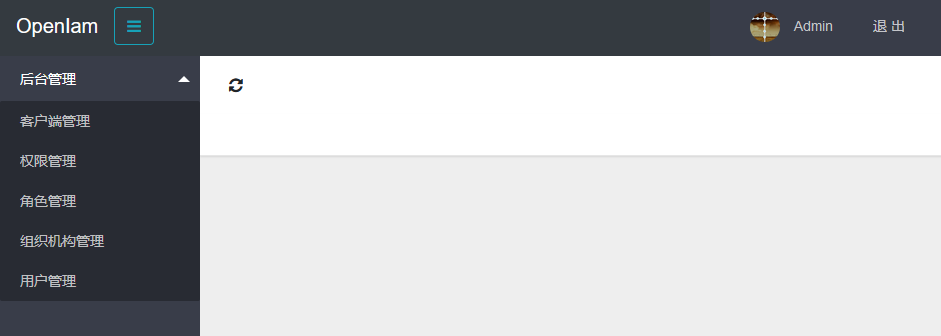
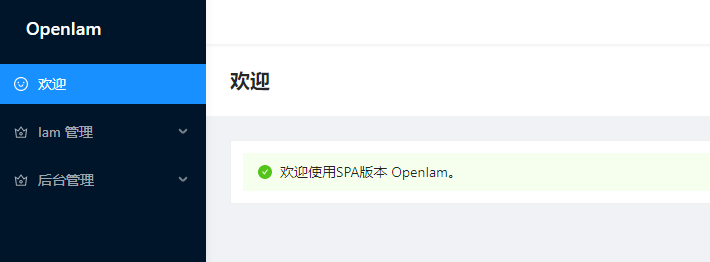
去掉 package.json 中的无用环境变量，修改 README

diff --git a/README.md b/README.md
@@ -1,12 +1,33 @@
-# OpenIam
-轻量级通用 Identity and Access Management (以下简称 Iam) 解决方案，用于满足企业内部各系统的单点登录（集成了 钉钉、企业微信、用户名、手机号、工号等多种方式）、用户管理、组织管理、授权管理的基本需求。    
-系统目前主要基于 `Asp.Net Core 3.1`, `EF Core 3.1`, `IdentityServer4`, `Layui 2.5.7` 技术实现，使用 Postgresql 数据库。
+# OpenIam （Spa)
+轻量级通用开源 Identity and Access Management (以下简称 Iam) 解决方案，用于满足企业内部各系统的单点登录（集成了 钉钉、企业微信、用户名、手机号、工号等多种方式）、用户管理、组织管理、授权管理的基本需求。    
+
+**SPA** 版本，除了 "用户登录" 相关功能仍然基于 `Razor Page` 方式开发，其余所有管理页面均基于前后端分离模式实现，其中：
+
+- 后端系统目前主要基于 `Asp.Net Core 3.1`, `EF Core 3.1`, `IdentityServer 4`, `Layui 2.5.7` 技术实现，使用 `Postgresql 13` 数据库。（注，后端系统已经提供 Layui 整套管理界面，因此可以和使用非 Spa 版本一样独立使用）
+- Spa 主要基于 `And Design Pro v5`，`React 17.0.0` 实现，并基于 `Pkce` 模式与后端进行认证。
+
+
+
+项目开发环境：
+
+- Win 10 x64
+- Visual Stuido 2019 v16.8.4、VS Code v1.52.1
+- Node v12.18.4
+- Docker v19.03.13
+
+
 
 ## 效果图
 ##### 登录（小屏）
+
+采用 Razor Page
+
 <img src="./Docs/smallScreen.png" width="200" ></img>
 
 ##### 登录（大屏）
+
+采用 Razor Page
+
 <img src="./Docs/largeScreen.png" width="500" ></img>
 
 ##### 首页
@@ -16,18 +37,36 @@
 <img src="./Docs/client.png" width="500" ></img>
 
 ##### 权限管理
-<img src="./Docs/permission.png" width="500" ></img>
+<img src="./Docs/perm.png" width="500" ></img>
+
+##### 角色管理
+
+<img src="./Docs/role.png" width="500" ></img>
+
+##### 组织机构管理
+
+<img src="./Docs/org.png" width="500" ></img>
+
+##### 用户管理
+
+<img src="./Docs/user.png" width="500" ></img>
+
+##### 系统管理
+
+<img src="./Docs/sys.png" width="500" ></img>
 
 ## 功能说明
-OpenIam 主要用于内部系统间的统一身份认证及权限管理，核心功能包括：客户端管理、用户管理、授权管理、组织机构管理。
+OpenIam 主要用于内部系统间的统一身份认证及权限管理，核心功能包括：客户端管理、用户管理、组织机构管理、授权管理。
 
 #### 客户端管理
 每个子系统如果需要接入 OpenIam，则必须先要在 OpenIam 中注册一个客户端，获取对应的 `Client Id`, `Client Secret`。如果客户端需要访问需要授权的 Api 服务，则可以把 Api 服务作为 Scope 天不假到客户端中，从而可以利用 OpenIam 进行统一鉴权。
 
+OpenIam 目前只支持 `Code(Pkce)` 、`Credential`模式。
+
 #### 用户管理
-1. 提供用户名、手机号、工号登录方式，其中手机号、工号登录方式默认开启，可选择关闭
-1. 集成钉钉、企业微信两种外部扫码登录方式
-1. 可后台添加用户，也可以用户自主注册（默认关闭，注册后需要管理员激活才能登录）
+1. 提供用户名、手机号、工号登录方式，其中手机号、工号登录方式默认开启，可通过**系统管理**界面选择关闭
+1. 集成钉钉、企业微信两种外部扫码登录方式，通过**工号**与用户进行关联
+1. 可后台添加用户，也可以用户自主注册（默认关闭，可通过**系统管理**界面选择开启。用户自己注册后，必须要管理员激活才能登录）
 1. 可对用户的所属组织、权限、角色进行控制
 
 #### 组织机构管理
@@ -36,29 +75,180 @@ OpenIam 主要用于内部系统间的统一身份认证及权限管理，核心
 1. 可管理组织默认的角色（所有属于该组织的用户自动继承这些角色）
 
 #### 授权管理
-授权系统主要由权限、角色、组织机构 几块构成，其中权限为最细粒度的控制，角色用于对权限按照一定规则进行分组，组织机构可以包含一些默认的角色，只要属于该组织的用户则自动拥有某个角色（及其权限）。   
+授权系统主要由权限、角色、组织机构 几块构成，其中 "权限" 为最细粒度的控制，角色用于对权限按照一定规则进行分组，组织机构可以包含一些默认的角色，只要属于该组织的用户则自动拥有某个角色（及该角色所拥有的权限）。   
+
+
 
 ## 使用说明
-#### 准备工作
-1. `git pull https://github.com/stg609/OpenIam`
-1. 安装 Postgres 数据库
-1. 在 Postgres 中创建数据库，并执行 **Web\Infra\Scrips** 中的 `01_init.sql` 脚本
-   
-#### Docker 方式
-1. ```
-   docker run -p 5002:443 
-     -e ASPNETCORE_ENVIRONMENT=Development 
-     -e ASPNETCORE_Kestrel__Certificates__Default__Path=/https/openIam.pfx 
-     -e ASPNETCORE_Kestrel__Certificates__Default__Password=111111 
-     -e "ASPNETCORE_URLS=https://+:443;http://+:80" 
-     -e "IamOptions__Host=https://localhost" 
-     -e "ConnectionStrings__DefaultConnection=替换成你的数据库连接字符串"
-     stg609/openiam:v1.0.0
-    ``` 
-    这个命令使用的是开发环境，并把容器中的 `443` 映射到了本机的 `5002` 端口，同时设置了 Https 的证书（基于 OpenSSL)。当命令成功执行后，会在控制台打印出当前正在监听的端口。
-    另外，这个命令并没有配置**钉钉**、**企业微信**相关的配置，而是使用我测试用的钉钉及微信，如无法正常使用，则可以采用环境变量方式进行替换，具体请参考 `appsettings.json`。
-        
-1. 访问 https://localhost:5002 即可
- 
+从 `Cookie` 安全的角度考虑，以及 Chrome 浏览器对 `SameSite` 的硬性要求，无论开发环境还是生产环境都要求支持 Https，否则登录相关功能将无法正常使用。
 
-未完待续
+##### 准备工作
+
+1. `git pull https://github.com/stg609/OpenIam` 
+
+1. 安装 Postgres 数据库
+
+1. 在 Postgres 中创建数据库，并执行 **Web\Infra\Scrips** 中的 `01_init.sql` 脚本对表结构进行配置       
+
+   
+### 一、开发调试环境
+
+##### 运行后端
+
+1. 使用 **Visual Studio 2019** 打开项目根目录的 **OpenIam.sln**，然后开始调试运行 （假设后端的地址为 https://localhost:5002)
+2. 使用自带的 Layui 管理界面为 Spa 创建一个 Spa Client，填写**名称**和**客户端地址**，其他采用默认即可。（注，客户端地址需要填写Spa项目运行的地址，如：https://localhost:8000）
+
+
+
+##### 运行前端
+
+由于并非采用微软提供的 React 项目模板，因此我们需要手动来运行前端。
+
+1. 在 **项目根目录\ClientApp** 文件夹中，使用命令行工具执行 `npm install`
+2. 编辑 **项目根目录\ClientApp\public\appsettings.js** 文件 （该文件也可以在运行过程中修改，修改后刷新浏览器缓存立即生效）
+    | Key                 | Value                                                        |
+    | ------------------- | ------------------------------------------------------------ |
+    | `Authority`         | 填写 OpenIam 后端的地址，如 https://localhost:5002           |
+    | `ClientId`          | 填写 **Spa Client** 的 ClientId                              |
+    | `PathBasePrefix`    | 用于当后端项目部署到虚拟目录的时候使用，开发环境可以直接留空 |
+    | `SigninPathSegment` | 采用默认的 signin                                            |
+    | `FrontEndHost`      | 填写前端项目的运行地址，如 https://localhost:8000            |
+
+1. 执行 `npm run start`
+
+
+
+### 二、测试环境
+
+为了避免 SPA 跨域的问题，本文采用 **Nginx** 反向代理方式进行部署。
+
+#### 编译方式
+
+如果对代码进行了调整，或者希望更好的控制代码的部署方式，可以选择直接对项目源码进行编译发布的方式。
+
+##### 发布后端
+
+1. 使用 **Visual Studio 2019** 打开项目根目录的 **OpenIam.sln**，选择 **Web** 项目，右键单击 **发布**，其中的 **配置** 选择 **Release**、**部署模式** 及 **目标运行时** 可根据情况进行选择。
+
+2. 发布后，通过配置文件对数据库、钉钉、企业微信、日志进行调整，对应的配置文件为: appsettings.json 及 serilog.json，这里主要强调下 `IamOptions` 的配置
+
+   | Key            | Value                                                        |
+   | -------------- | ------------------------------------------------------------ |
+   | `Host`         | 填写 OpenIam 后端的地址，由于我们采用 nginx 反向代理，这里填写前端地址如： https://localhost:8000/backend，其中 `backend` 为 nginx 中的二级目录名称 |
+   | `ValidIssuers` | 填写合法的 Issuers，由于我们部署到 Nginx ，这里可以把 https://localhost:8000/backend 以及 https://locahost:5002 都加进去。 |
+   | `PathBase`     | 用于当后端项目部署到虚拟目录的时候使用，这里填写 `/backend`  |
+
+##### 发布前端
+
+1. 在 **项目根目录\ClientApp** 文件夹打开命令行工具，执行 `npm run build`
+
+2. 编辑 **项目根目录\ClientApp\public\appsettings.js** 文件
+
+   | Key                 | Value                                                        |
+   | ------------------- | ------------------------------------------------------------ |
+   | `Authority`         | 填写 OpenIam 后端的地址，由于我们采用 nginx 反向代理，这里填写前端地址如： https://localhost:8000/backend，其中 `backend` 为 nginx 中的二级目录名称 |
+   | `ClientId`          | 填写 **Spa Client** 的 ClientId                              |
+   | `PathBasePrefix`    | 用于当后端项目部署到虚拟目录的时候使用，这里填写 `/backend`  |
+   | `SigninPathSegment` | 采用默认的 signin                                            |
+   | `FrontEndHost`      | 填写前端项目的运行地址，如 https://localhost:8000            |
+
+##### 配置 nginx
+
+1. 打开 nginx.conf，复制如下内容：
+
+   ```
+   # 后端项目地址
+   upstream IdSrv {
+       include /etc/nginx/upstream.conf;
+   }
+   
+   server {
+       listen 443 ssl;
+   		
+       # gzip config
+       gzip on;
+       gzip_min_length 1k;
+       gzip_comp_level 9;
+       gzip_types text/plain application/javascript application/x-javascript text/css application/xml text/javascript application/x-httpd-php image/jpeg image/gif image/png;
+       gzip_vary on;
+       gzip_disable "MSIE [1-6]\.";
+   	
+       # 前端项目直接运行与 根目录
+       location / {
+           root   /usr/share/nginx/html; # Spa build 后的目录
+           try_files $uri $uri/ /index.html;
+       }
+   
+       # 后端项目位于 /backend 二级目录，用于前后端的隔离
+       location /backend {
+           proxy_pass $scheme://IdSrv;
+           proxy_redirect     off;
+           proxy_set_header   Upgrade $http_upgrade;
+           proxy_set_header   Connection keep-alive;
+           proxy_set_header   Host $host:$server_port;
+           proxy_set_header   X-Real-IP $remote_addr;
+           proxy_set_header   X-Forwarded-Host $host:$server_port;
+           proxy_set_header   X-Forwarded-For $proxy_add_x_forwarded_for;
+           proxy_set_header   X-Forwarded-Proto $scheme;
+           proxy_cache_bypass $http_upgrade;
+       }
+   
+       # ssl 证书相关配置，请替换成正式的证书
+       ssl_certificate           /etc/nginx/ssl/openIam.crt;
+       ssl_certificate_key       /etc/nginx/ssl/openIam.key;
+       ssl_protocols             TLSv1.1 TLSv1.2;
+       ssl_prefer_server_ciphers on;
+       ssl_ciphers               "EECDH+AESGCM:EDH+AESGCM:AES256+EECDH:AES256+EDH";
+       ssl_ecdh_curve            secp384r1;
+       ssl_session_cache         shared:SSL:10m;
+       ssl_session_tickets       off;
+   }
+   ```
+
+   上面只是提供了一个基础配置，可以根据实际情况进行调整。
+
+2.  编辑 **upstream.conf** ，该文件用于保存所有可用的后端服务地址，如：
+
+   ```
+   server localhost:5001;
+   server localhost:5002;
+   ```
+
+##### 运行
+
+1. 运行 后端 项目，可以通过 `.\Charlie.OpenIam.Web.exe` 启动
+
+2. 启动 nginx ，如果已经启动则刷新 nginx 的配置 (`nginx -s reload`)
+
+   
+
+#### Docker 方式
+
+如果只是希望快速直接试用，则推荐使用 Docker 方式
+
+1. 启动后端
+   
+   ```
+   docker run -p 5002:443 
+      -v C:\Projects\Github\OpenIam\Web\appsettings.json:/app/appsettings.json 
+      -e ASPNETCORE_ENVIRONMENT=Production 
+      -e Certificate__Path=lics/idsrv4.pfx  
+      -e "ASPNETCORE_URLS=https://+:443;" 
+      stg609/openiam:spa-v1.1.0
+   ```
+    这个命令使用的是产品环境，并把容器中的 **443** 映射到了本机的 **5002** 端口。当命令成功执行后，会在控制台打印出当前正在监听的端口。
+   
+   
+1. 启动前端
+
+   ```
+   docker run -p 8000:443 
+   	-v C:/Projects/Github/OpenIam/ClientApp/public/appsettings.js:/usr/share/nginx/html/appsettings.js 
+   	-v C:\Projects\Github\OpenIam\ClientApp\nginx-upstream.conf:/etc/nginx/upstream.conf 
+   	-v C:\Projects\Github\OpenIam\ClientApp\nginx.conf:/etc/nginx/conf.d/default.conf 
+   	stg609/openiam:spa-frontend-v1.1.0
+   ```
+
+   appsettings.js、nginx.conf 以及 nginx-upstream.conf 如上面提到的方式编辑即可。
+
+   注意，由于是运行在 docker 环境，localhost 只能访问到容器内部的环境。如果多个容器间需要互相访问，请使用 network 等方式进行配置，也可以简单的使用本机局域网 IP 地址
